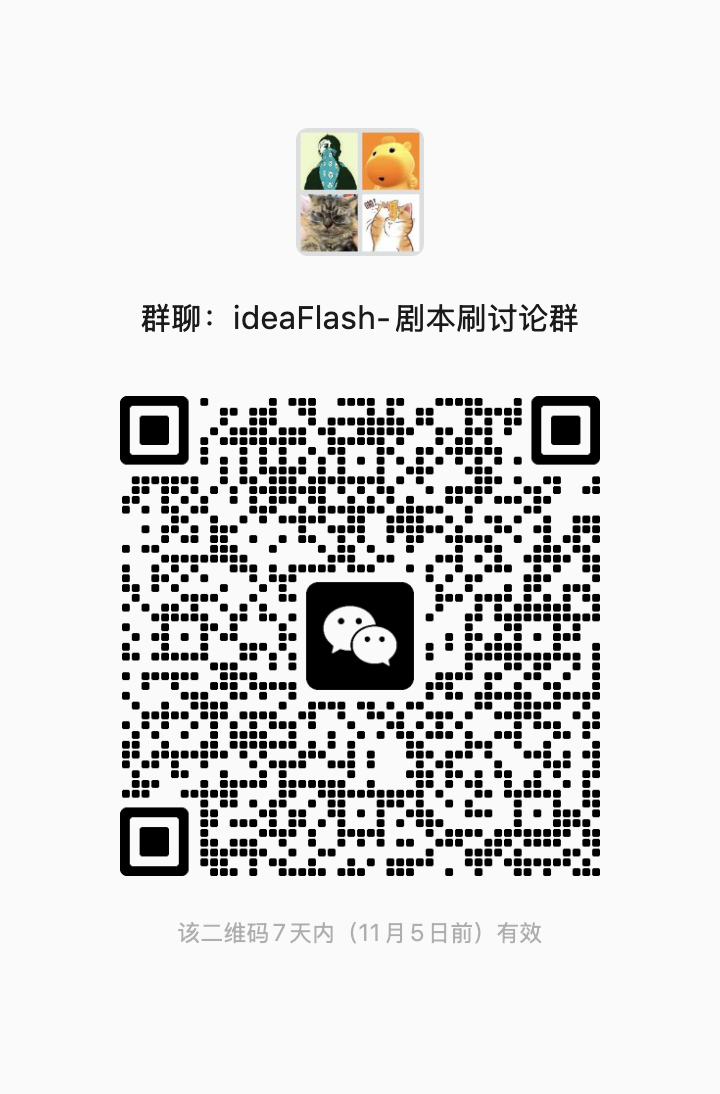
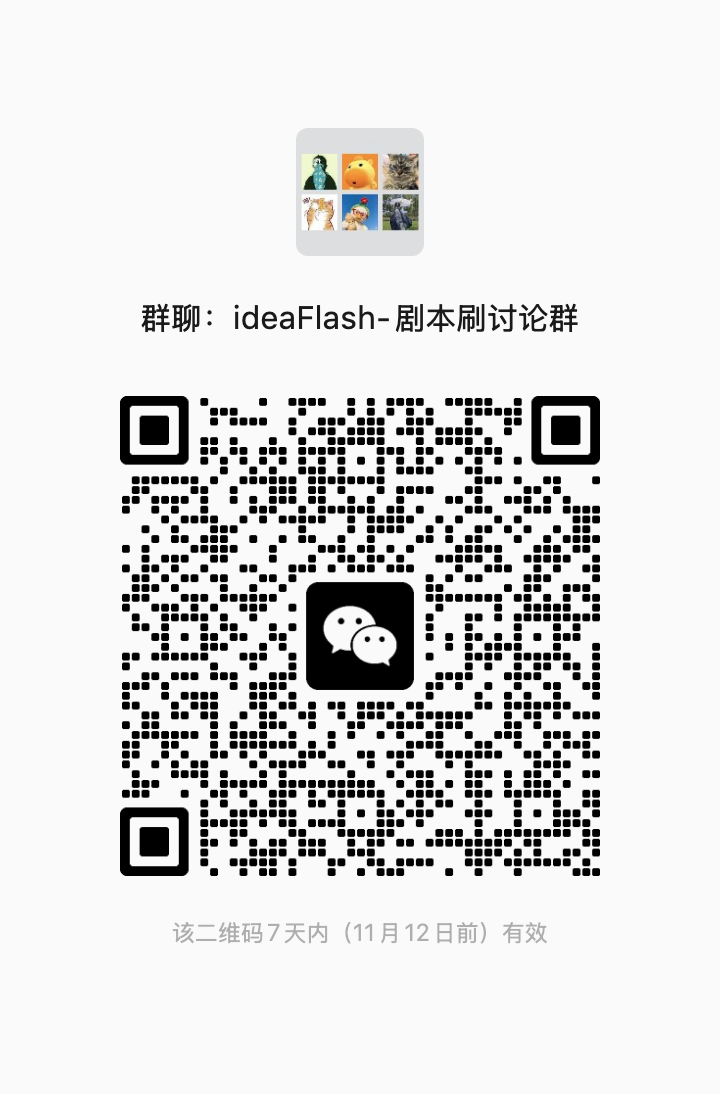
docs: update community qr code

diff --git a/README.md b/README.md
@@ -65,7 +65,7 @@ NOVEL_API_PORT=8005 NOVEL_WEB_PORT=5180 bash script/stop.sh
 
 微信讨论群（扫码加入）：
 
-<img src="docs/images/ideaFlash-script-run-qq-group.png" alt="ideaFlash-剧本刷微信讨论群二维码" width="280" />
+<img src="docs/images/ideaFlash-script-run-qq-group.png" alt="剧本刷微信讨论群二维码" width="280" />
 
 ### 桌面开发
 
